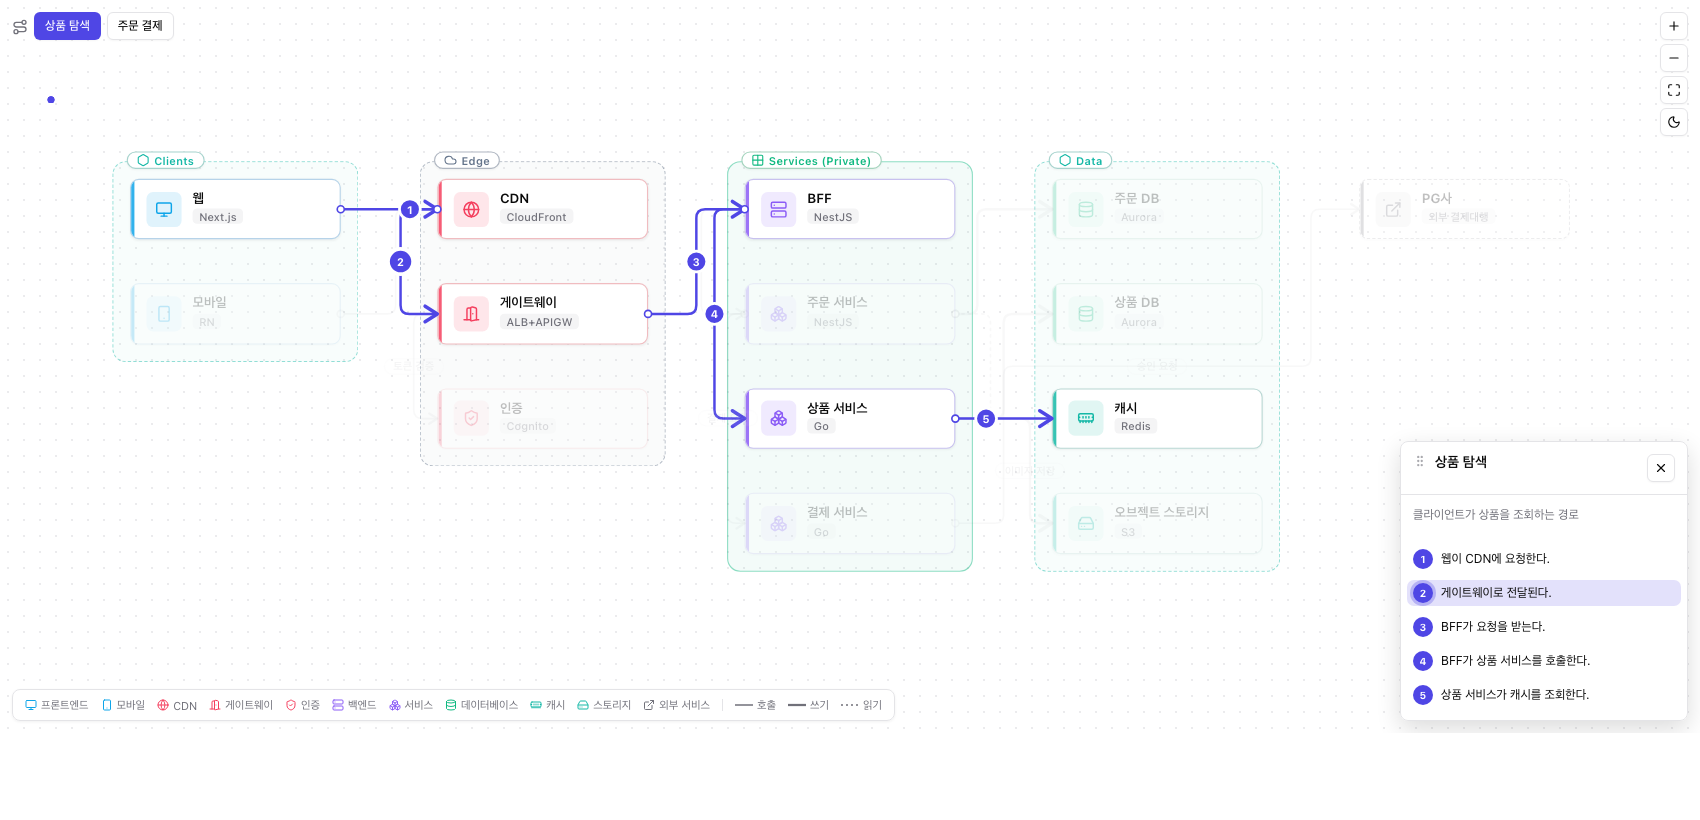
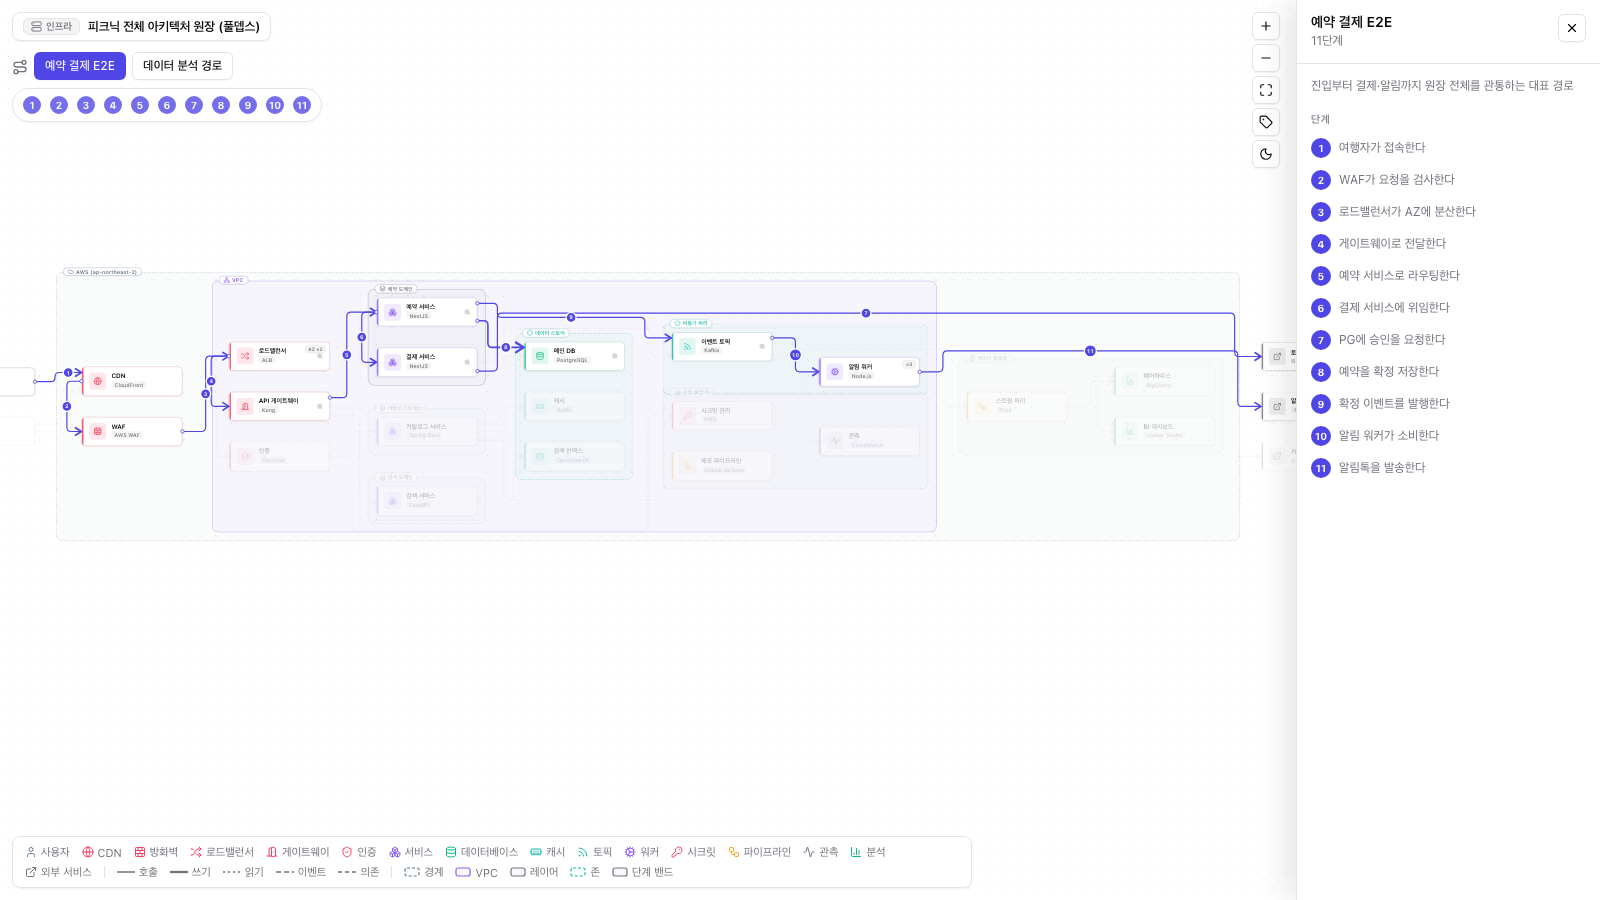
v0.8.0 — 임베드·사이드바 UX 개선 + 아키텍처 SVG/PNG 내보내기 + README 스크린샷 갱신
엔진·셸 UX (v0.7.1분):
- 시퀀스 자동 fit-to-width(줌 하한 0.3) — 위키 임베드에서 액터 잘림 해소
- 시퀀스 드로어가 캔버스를 밀도록(오버레이 가림 → 리플로우)
- 아키텍처 사이드바 열림 시 캔버스 팬 시프트(−152px, 닫으면 복귀) — 전체화면 가림 해소
- 위키 본문 반응형(860→1240px, 네비 접으면 넓어짐) + 확장 figure 96vw·전체 높이 + scrollIntoView

아키텍처 SVG/PNG 내보내기 (render.mjs):
- 내보내기 전용 순수 SVG 재구성(foreignObject 0 — Figma·문서 호환): 그룹·카드·ERD 테이블 좌표 기반 재그리기,
  엣지 레이어는 기본 상태로 재렌더·복제 후 CSS 변수/color-mix를 실값으로 해석(현재 테마 반영)
- PNG는 동일 SVG를 캔버스 2배 래스터라이즈, 툴바 SVG/PNG 버튼

문서:
- 플러그인 README(zzon-doc/README.md)에 zzon-seq 반영(스킬 3종·kind 표·트리·샘플 13종) — v0.7.0 누락분
- 루트 README 한/영 미리보기 스크린샷 5장 갱신(assets/ — 통합 문서·시퀀스·플로우+사이드바·ERD 사이드바·위키 홈)

버전: 0.7.0 → 0.8.0 동기화
검증: 헤드리스 Chrome 스크린샷 7종(임베드 fit·드로어·시프트·위키 와이드·내보내기 SVG 2종·툴바) · 콘솔 에러 0 ·
샘플 13종 lint · plugin validate 통과

diff --git a/zzon-doc/skills/zzon-seq/scripts/seq-engine.js b/zzon-doc/skills/zzon-seq/scripts/seq-engine.js
@@ -947,7 +947,8 @@ code { font-family: ui-monospace, "SF Mono", SFMono-Regular, Menlo, Consolas, mo
 
 /* ── 캔버스 ── */
 #seq-stage { flex: 1; position: relative; min-height: 0; }
-#canvas { position: absolute; inset: 0; overflow: auto; }
+#canvas { position: absolute; inset: 0; overflow: auto; transition: right .2s ease; }
+#seq-stage.drawer-open #canvas { right: min(320px, 88%); }
 #diagram-w { position: relative; width: max-content; min-width: 100%; }
 .actor-layer {
   position: sticky; top: 0; z-index: 10;
@@ -1118,6 +1119,9 @@ code { font-family: ui-monospace, "SF Mono", SFMono-Regular, Menlo, Consolas, mo
     bindKeyboard();
     bindShellProtocol();
     renderFlow();
+    // 뷰포트보다 다이어그램이 넓으면 자동 fit-to-width — 임베드(작은 iframe)에서 처음부터 전체 폭이 보이게
+    const vw = $("#canvas").clientWidth;
+    if (vw > 0 && layout && layout.width > vw) setZoom(vw / layout.width);
   }
   function renderFlow() {
     layout = layoutFlow(spec, state.mode);
@@ -1260,6 +1264,7 @@ code { font-family: ui-monospace, "SF Mono", SFMono-Regular, Menlo, Consolas, mo
     const d = $("#drawer");
     if (!d.classList.contains("open")) {
       d.classList.add("open");
+      $("#seq-stage").classList.add("drawer-open"); // 캔버스를 드로어 폭만큼 줄인다 (가림 방지)
       postToShell({ type: "zzon:sidebar", open: true });
     }
   }
@@ -1267,6 +1272,7 @@ code { font-family: ui-monospace, "SF Mono", SFMono-Regular, Menlo, Consolas, mo
     const d = $("#drawer");
     if (d.classList.contains("open")) {
       d.classList.remove("open");
+      $("#seq-stage").classList.remove("drawer-open");
       postToShell({ type: "zzon:sidebar", open: false });
     }
   }
@@ -1448,7 +1454,8 @@ code { font-family: ui-monospace, "SF Mono", SFMono-Regular, Menlo, Consolas, mo
     });
   }
   function setZoom(z) {
-    state.zoom = Math.min(1.6, Math.max(0.5, Math.round(z * 10) / 10));
+    // 하한 0.3: 좁은 임베드에서 fit-to-width가 가능해야 한다 (0.05 단위 내림 — 폭 초과 방지)
+    state.zoom = Math.min(1.6, Math.max(0.3, Math.floor(z * 20) / 20));
     $("#diagram-w").style.zoom = String(state.zoom);
     $("#zoom-val").textContent = `${Math.round(state.zoom * 100)}%`;
   }

diff --git a/CLAUDE.md b/CLAUDE.md
@@ -123,6 +123,13 @@ plugins-zzon-doc/
   - **라우팅 명문화**: zzon-doc SKILL.md kind 표 + document-types.md C계열 + zzon-wiki(doc-catalog usecase/event-flow)에 위임 기준 — "구조를 지나가는가→data-flow, 순서대로 주고받는가→시퀀스, 병행은 보완".
   - **엔진은 순수 JS로 이식**: FlowScope(TS)를 1회 트랜스파일해 seq-engine.js(1,553줄, 63KB)로 확정 — 레포에 빌드 도구 없이 기존 엔진들과 동일하게 직접 수정한다. 핵심 계약 7 참조.
   - 검증: playground/examples에 시퀀스 2장 혼합 빌드(12장) → 단독 열기·통합 index 배지/카드·iframe 임베드·postMessage 왕복(패널 열림→좌메뉴 접힘, 재오픈→패널 닫힘)·다크 전환 스크린샷 확인, pageerror 0.
+- **v0.8.0 — 임베드·사이드바 UX 개선 + 아키텍처 SVG/PNG 내보내기** (2026-07-22):
+  - **아키텍처 뷰어 SVG/PNG 내보내기**(render.mjs, 툴바 SVG/PNG 버튼): 노드가 HTML이라 **내보내기 전용 순수 SVG를 재구성**한다(foreignObject 금지 — Figma·편집기 호환). 그룹 언더레이·카드(아이콘·tech 칩·badge·설명)·ERD 테이블(컬럼·PK/FK 태그)은 좌표 기반으로 다시 그리고, 엣지 레이어는 라이브 SVG를 "기본 상태+라벨 항상"으로 재렌더해 복제 후 CSS 변수·color-mix를 `getComputedStyle`로 실값 해석(현재 테마 반영), 라벨 foreignObject는 필+텍스트로 치환. PNG는 그 SVG를 캔버스에 2배로 래스터라이즈. 검증 훅 `window.__zzonExportSvg`.
+  - **시퀀스 자동 fit-to-width**(seq-engine boot): 뷰포트보다 넓으면 자동 축소(줌 하한 0.5→0.3, 0.05 단위 내림) — 위키 440px 임베드에서 액터 3명만 보이던 잘림 해소.
+  - **시퀀스 드로어가 캔버스를 밈**: `#seq-stage.drawer-open #canvas{right:min(320px,88%)}` — 오버레이 가림 대신 리플로우.
+  - **아키텍처 사이드바 팬 시프트**(render.mjs setSideOpen): 열릴 때 transform.x −152px, 닫으면 복귀 — 전체화면에서 사이드바가 그림을 가리던 문제 해소.
+  - **위키 본문 반응형**: .page 860px→**1240px**(컨테이너 따라 신축 — 네비 접으면 넓어짐). 확장 figure 96vw·높이 calc(100vh−118px) + `scrollIntoView` — 임베드 사이드바가 사실상 "페이지 오른쪽 전체 높이" 패널이 됨(셸 이식 없이 동일 UX; 부족하면 셸 레벨 미러링이 다음 단계).
+  - 검증: 헤드리스 Chrome 스크린샷 4종(임베드 fit 45%·드로어 리플로우·플로우+시프트·위키 와이드) + 콘솔 에러 0 + validate 통과. README 미리보기 스크린샷 5장 갱신(assets/, 시퀀스·위키 신규).
 - 남은 엔진 백로그는 P2~P3(같은 레인 좌측 C자 우회·접근 세그먼트 회피·lint 엣지/라벨 검사·그룹 접기·시맨틱 줌) — 메모리 `zzon-engine-priorities` 참조.
 - 소유자 표준은 **메모리**에 기록됨(무의존/문서 디자인/레이아웃 품질) — 로컬, 레포 밖.
 - git: 첫 커밋(main) 존재. **GitHub push는 소유자가 직접 함.** 이후 변경분(통합 문서 등)은 아직 커밋 안 됨 — 소유자 검토 후 커밋.

diff --git a/README.md b/README.md
@@ -14,21 +14,25 @@
 
 ## 미리보기
 
-| 통합 문서 (메뉴 + 전체보기) | 대형 ERD (FK 컬럼 앵커) |
+| 통합 문서 (메뉴 + 전체보기) | 시퀀스 다이어그램 (zzon-seq) |
 |---|---|
-| ![통합 문서](assets/integrated-doc.png) | ![대형 ERD](assets/diagram-erd.png) |
+| ![통합 문서](assets/integrated-doc.png) | ![시퀀스 다이어그램](assets/diagram-seq.png) |
 
 **플로우 강조** — 플로우 버튼을 누르면 경로가 **순번 배지(①②③)**·**순번 스트립**·**우측 단계 사이드바**와 함께 강조된다.
 
 ![플로우 강조](assets/diagram-flow.png)
 
-> 번들 샘플로 만든 결과물.
+| ERD + 상세 사이드바 (컬럼·FK 연결) | 문서 위키 (zzon-wiki) |
+|---|---|
+| ![ERD](assets/diagram-erd.png) | ![문서 위키](assets/wiki-home.png) |
+
+> 전부 번들 샘플·예제로 만든 결과물 — 의존성 0짜리 단일 `.html`을 브라우저로 연 화면이다.
 
 ## 특징
 
 - **5종 다이어그램** — 인프라 · 데이터 흐름 · **시퀀스** · ERD · 에이전트(`.claude`) 구조 (유형 카탈로그: 컨텍스트·멀티리전 HA·데이터 파이프라인·풀뎁스 원장…)
 - **의존성 0** — 라이브러리·CDN 없이 self-contained 단일 `.html`
-- **인터랙티브** — 노드 클릭 · 플로우 강조 · 순번 배지 · 드릴다운(⊕ 더블클릭) · 호버 툴팁 · 팬/줌 · 다크모드
+- **인터랙티브** — 노드 클릭 · 플로우 강조 · 순번 배지 · 드릴다운(⊕ 더블클릭) · 호버 툴팁 · 팬/줌 · 다크모드 · **SVG/PNG 내보내기**(순수 벡터)
 - **통합 문서** — 여러 장을 좌측 메뉴 + 전체보기로 묶음
 - **시퀀스 다이어그램 (zzon-seq)** — 코드를 추적해 액터 간 요청/응답 왕복을 시간축으로. 전체/간소화 토글 · 단계 상세(근거 코드 위치) · 둘러보기(단계 재생) · alt/opt/loop/par 분기 · SVG/PNG 다운로드
 - **문서 위키 (zzon-wiki)** — 코드 스캔 + 질문으로 개발 문서를 채우고, 진행 현황·열린 질문을 추적하는 위키 사이트 생성. 아키텍처 문서엔 다이어그램이 임베드된다

diff --git a/README.en.md b/README.en.md
@@ -14,21 +14,25 @@
 
 ## Preview
 
-| Unified docs (menu + overview) | Large ERD (FK column anchors) |
+| Unified docs (menu + overview) | Sequence diagram (`zzon-seq`) |
 |---|---|
-| ![Unified docs](assets/integrated-doc.png) | ![Large ERD](assets/diagram-erd.png) |
+| ![Unified docs](assets/integrated-doc.png) | ![Sequence diagram](assets/diagram-seq.png) |
 
-**Flow highlight** — click a flow button and the path lights up with **step badges (①②③)** and a **step panel**.
+**Flow highlight** — click a flow button and the path lights up with **step badges (①②③)**, a **step strip**, and a **right-side step panel**.
 
 ![Flow highlight](assets/diagram-flow.png)
 
-> Rendered from the bundled samples (sample labels are in Korean).
+| ERD + detail sidebar (columns & FK links) | Documentation wiki (`zzon-wiki`) |
+|---|---|
+| ![ERD](assets/diagram-erd.png) | ![Documentation wiki](assets/wiki-home.png) |
+
+> All rendered from the bundled samples/examples — zero-dependency single `.html` files opened in a browser (labels are in Korean).
 
 ## Features
 
 - **5 diagram kinds** — infra · data-flow · **sequence** · ERD · agent (`.claude`) topology (with a type catalog: context, multi-region HA, data pipeline, full-depth landscape …)
 - **Zero dependencies** — no libraries or CDN; a self-contained single `.html`
-- **Interactive** — click nodes · highlight flows · step badges · drill-down (⊕ double-click) · hover tooltips · pan/zoom · dark mode
+- **Interactive** — click nodes · highlight flows · step badges · drill-down (⊕ double-click) · hover tooltips · pan/zoom · dark mode · **SVG/PNG export** (pure vector)
 - **Unified docs** — bundle many diagrams into a left menu + overview
 - **Sequence diagrams (`zzon-seq`)** — traces code paths into actor lifelines over time: full/simplified toggle · per-step detail with source refs · step-through playback · alt/opt/loop/par fragments · SVG/PNG export
 - **Docs wiki (`zzon-wiki`)** — fills project documentation via code scan + questions, tracks progress and open questions as a wiki site; architecture pages embed the diagrams

diff --git a/zzon-doc/skills/zzon-doc/SKILL.md b/zzon-doc/skills/zzon-doc/SKILL.md
@@ -86,7 +86,7 @@ node ${CLAUDE_PLUGIN_ROOT}/skills/zzon-doc/scripts/layout-lint.mjs <spec.json>
 
 ## 출력 .html에서 되는 것 (사용자에게 안내)
 
-타이틀바(제목+유형 배지) · **우측 상세 사이드바**(노드 클릭→설명·ERD 컬럼·연결 목록·드릴다운 / 플로우 켜면→단계 목록. 통합 문서에선 좌측 메뉴와 상호 배타로 열림) · **드릴다운(`href` 노드 ⊕ 더블클릭 → 통합 문서에서 해당 장으로 이동)** · 플로우 버튼(경로 강조+순번 배지+**버튼 아래 순번 스트립**) · **배지(①②③)·스트립·단계 클릭→해당 단계 강조** · **버튼·배지 호버→설명 툴팁** · ERD 카디널리티(까마귀발) · 노드 주석 배지 · 팬/줌 · **라벨 항상 표시 토글**(줌아웃해도 유지) · 다크/라이트 · 범례(카테고리+엣지+그룹).
+타이틀바(제목+유형 배지) · **우측 상세 사이드바**(노드 클릭→설명·ERD 컬럼·연결 목록·드릴다운 / 플로우 켜면→단계 목록. 통합 문서에선 좌측 메뉴와 상호 배타로 열림) · **드릴다운(`href` 노드 ⊕ 더블클릭 → 통합 문서에서 해당 장으로 이동)** · 플로우 버튼(경로 강조+순번 배지+**버튼 아래 순번 스트립**) · **배지(①②③)·스트립·단계 클릭→해당 단계 강조** · **버튼·배지 호버→설명 툴팁** · ERD 카디널리티(까마귀발) · 노드 주석 배지 · 팬/줌 · **라벨 항상 표시 토글**(줌아웃해도 유지) · **SVG/PNG 내보내기**(순수 벡터 — 문서·Figma에 그대로, 현재 테마 색 반영) · 다크/라이트 · 범례(카테고리+엣지+그룹).
 
 ## 절대 규칙
 
